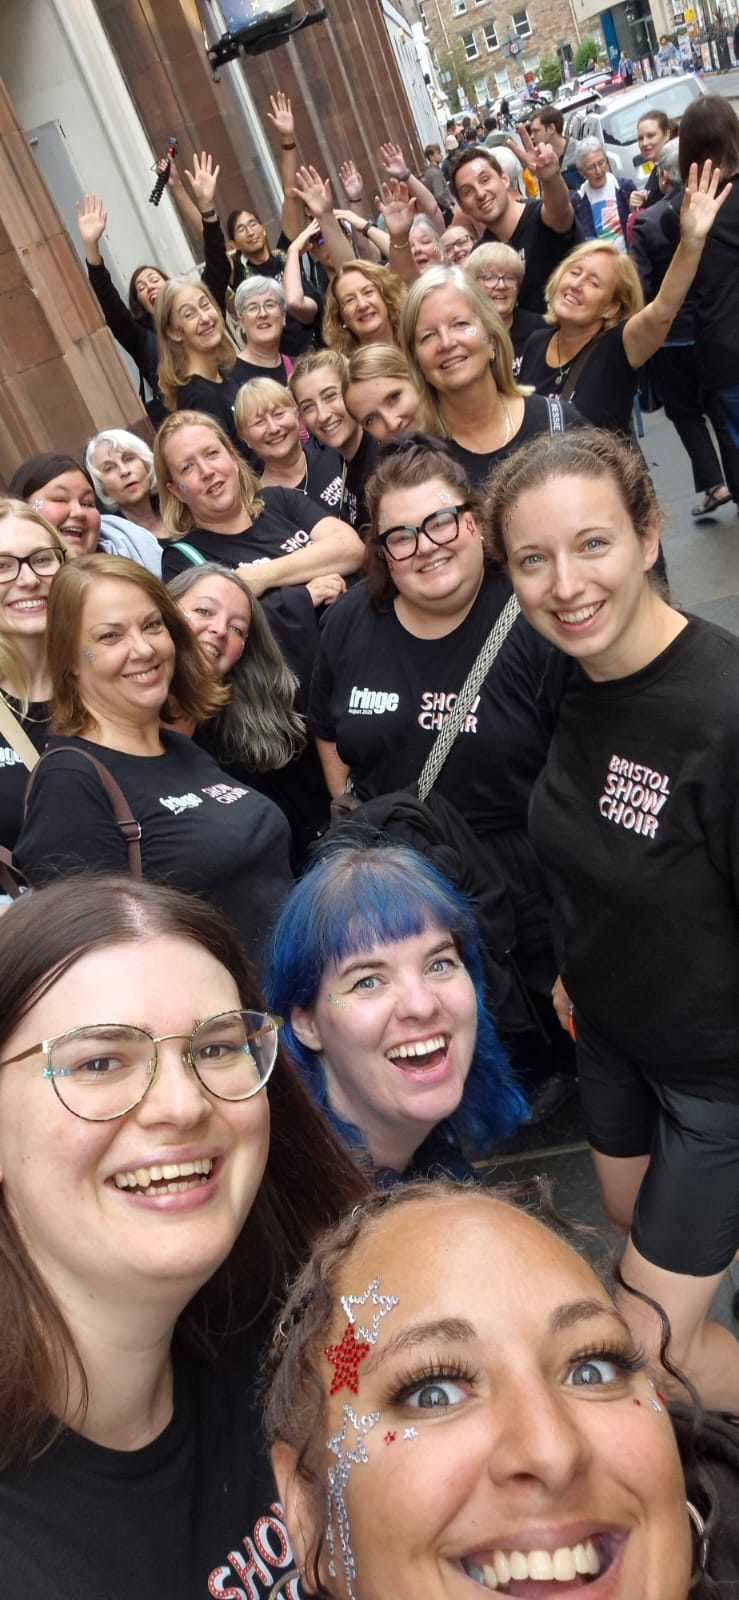
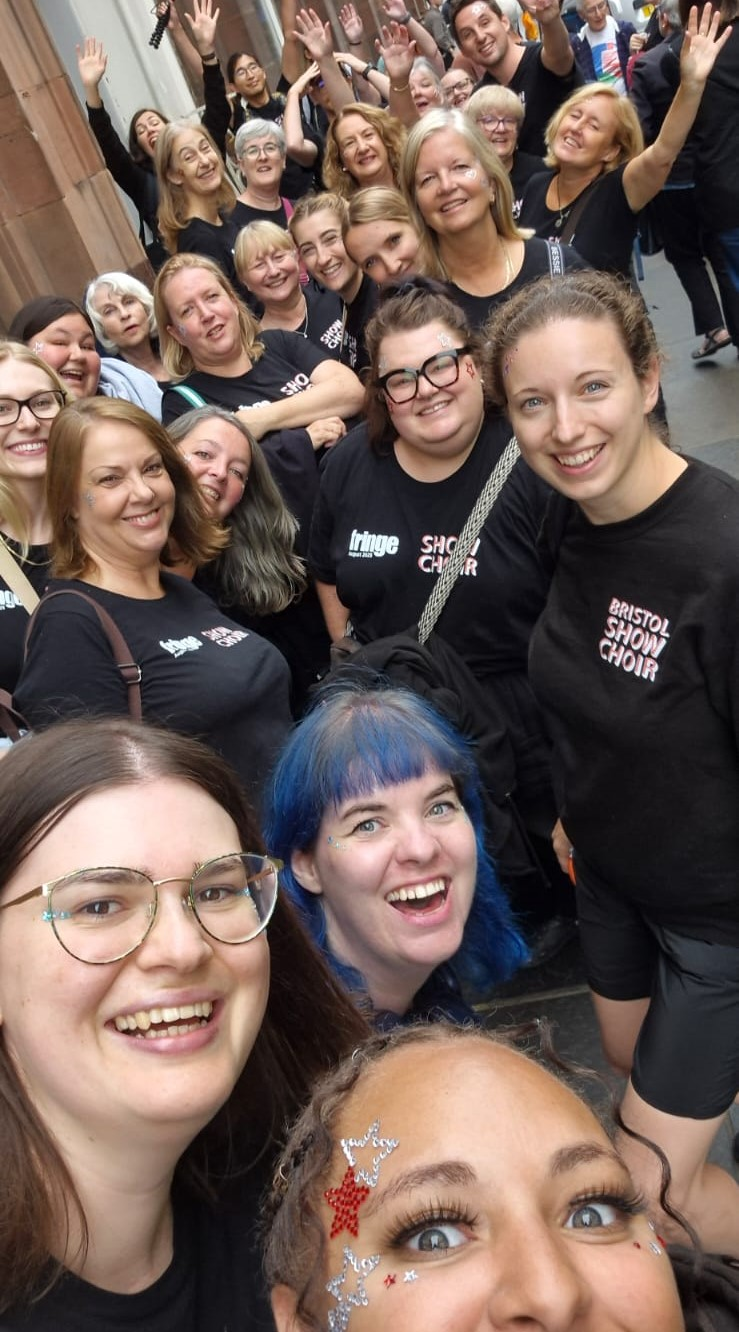
changes to photo sizing

diff --git a/src/App.jsx b/src/App.jsx
@@ -6,10 +6,10 @@ import ExtraThanks from "./ExtraThanks";
 
 // List of photo filenames in src/photos (relative to public or src for Vite)
 const PHOTOS = [
-  "1-choir1aJazzHands.jpg",
-  "2-choir1bJazzHands.jpg",
-  "3-choir2aJazzHands.jpg",
-  "4-choir2bJazzHands.jpg",
+  "1-choir1aJazzHands_resized.jpg",
+  "2-choir1bJazzHands_resized.jpg",
+  "3-choir2aJazzHands_resized.jpg",
+  "4-choir2bJazzHands_resized.jpg",
   "5-choir1Busk.JPEG",
   "6-choir2Westbury.jpg",
   "7-choir1Basses.jpeg",

diff --git a/src/App.css b/src/App.css
@@ -6,7 +6,7 @@
 }
 
 #root {
-  max-width: 900px;
+  
   margin: 0 auto;
   padding: 2rem;
   text-align: left;
@@ -41,8 +41,8 @@
 }
 .photo img {
   width: 100%;
-  max-width: 500px;
-  max-height: 500px;
+  max-width: 800px;
+  max-height: 600px;
   border-radius: 12px;
   box-shadow: 0 2px 12px rgba(0, 0, 0, 0.1);
   object-fit: cover;
@@ -53,6 +53,7 @@
   flex-direction: column;
   gap: 1rem;
   flex: 1;
+  max-width: 400px;
 }
 
 .comment {

diff --git a/src/Landing.css b/src/Landing.css
@@ -4,9 +4,9 @@
   flex-direction: column;
   align-items: center;
   justify-content: flex-start;
-  background: #fff;
+  background: #ffffff;
   gap: 3rem;
-  padding: 0 1rem;
+  padding: 1rem 1rem;
   box-sizing: border-box;
 }
 .landing-image {

diff --git a/src/ExtraThanks.css b/src/ExtraThanks.css
@@ -11,7 +11,7 @@
 
 .extra-thanks-back,
 .extra-thanks-home {
-  margin-top: 2rem;
+  margin-top: 1rem;
   padding: 1rem 2.5rem;
   font-size: 1.3rem;
   border-radius: 8px;
